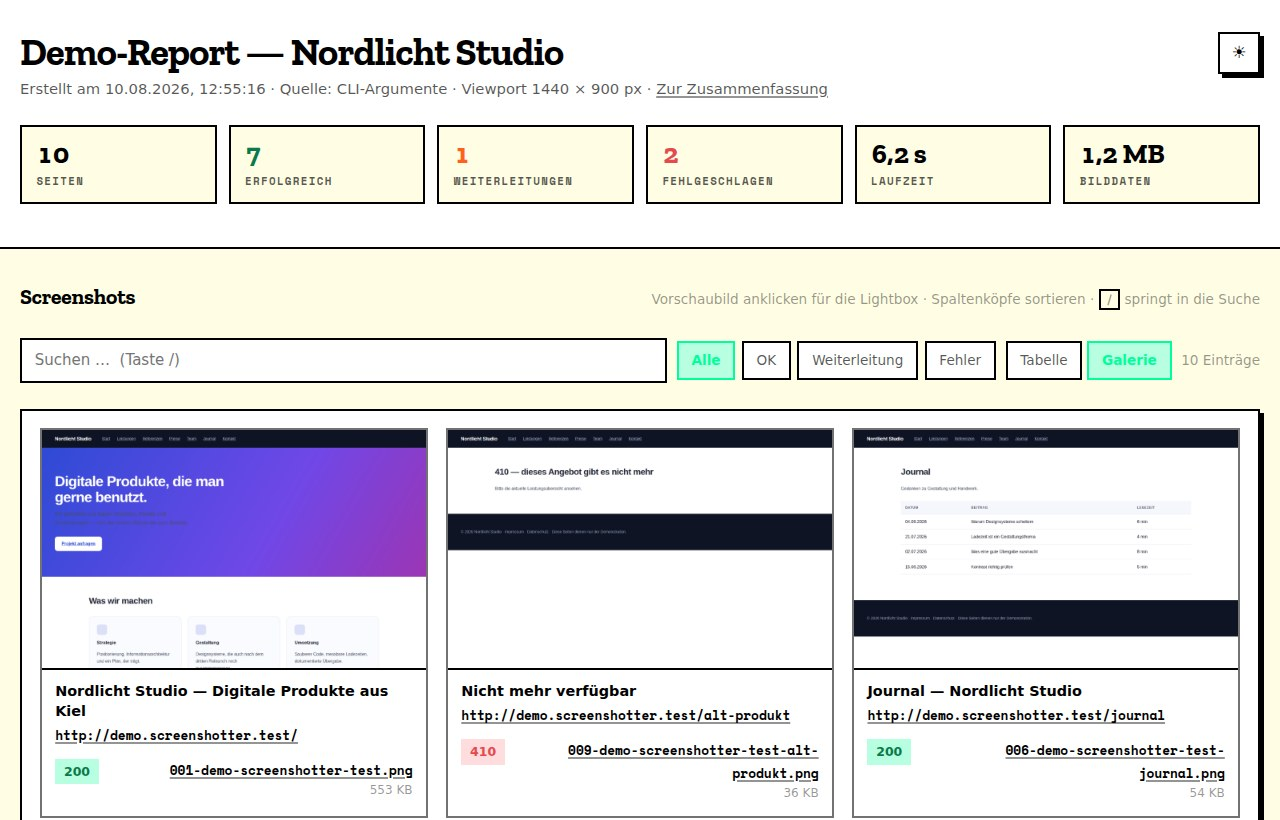
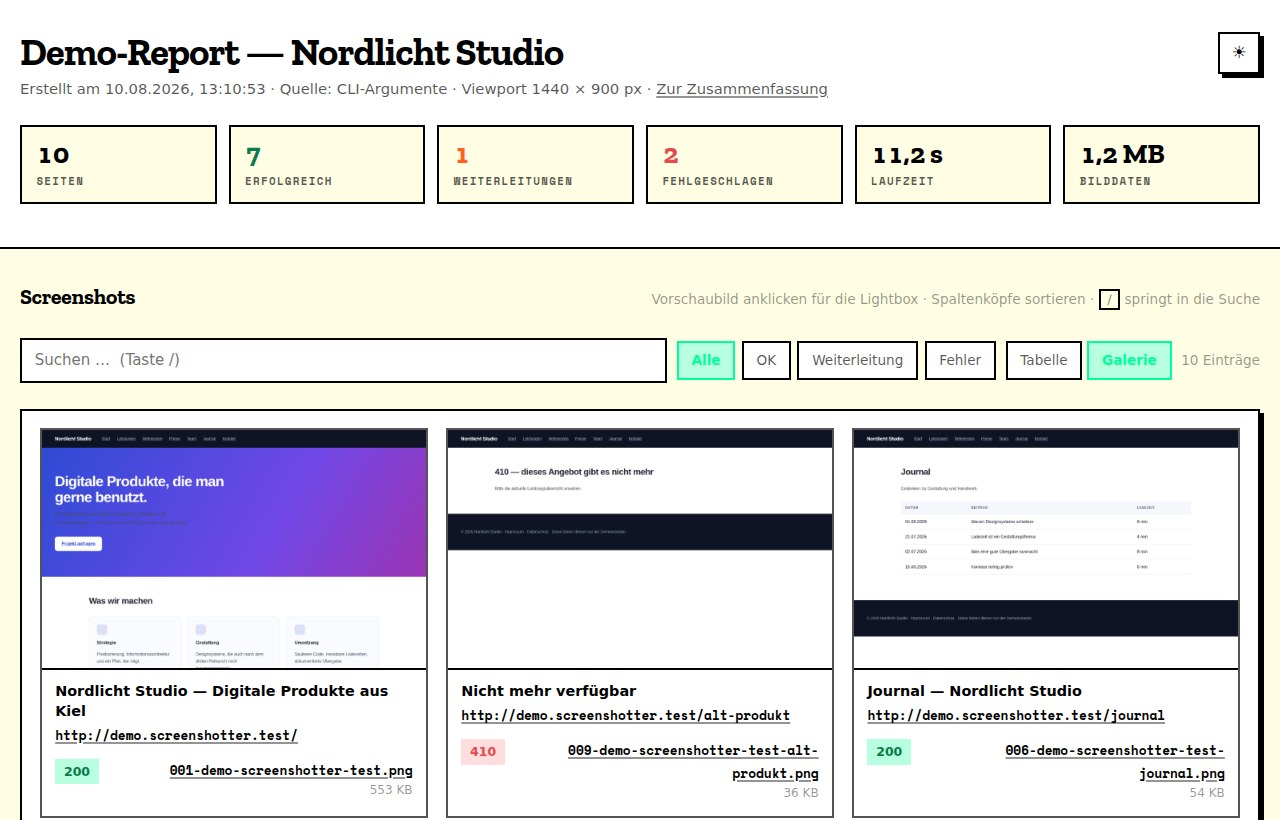
Rebuild the demo report and the docs images for 1.5.1
The screenshots under docs/ are taken from the running tool, so they
carry its version in the web UI footer. Bumping first and photographing
afterwards keeps the two in step — the other way round the images would
have shipped showing the previous version.

Version 1.5.1 also gives the corporate-identity work a release; 1.5.0
was cut before it.

Claude-Session: https://claude.ai/code/session_01WY6QHn3dAZf7BC5eNHGjUA

diff --git a/docs/demo/index.html b/docs/demo/index.html
@@ -4,7 +4,7 @@
   <meta charset="utf-8">
   <meta name="viewport" content="width=device-width, initial-scale=1">
   <meta name="robots" content="noindex, nofollow">
-  <meta name="generator" content="screenshotter v1.5.0">
+  <meta name="generator" content="screenshotter v1.5.1">
   <title>Demo-Report — Nordlicht Studio</title>
   <link rel="icon" href="assets/logo.svg" type="image/svg+xml">
   <link rel="stylesheet" href="assets/report.css">
@@ -20,7 +20,7 @@
         <div>
           <h1 class="site-title">Demo-Report — Nordlicht Studio</h1>
           <p class="site-subtitle">
-            Erstellt am 10.08.2026, 12:55:16 · Quelle: CLI-Argumente · Viewport 1440 × 900 px · <a href="#summary">Zur Zusammenfassung</a>
+            Erstellt am 10.08.2026, 13:10:53 · Quelle: CLI-Argumente · Viewport 1440 × 900 px · <a href="#summary">Zur Zusammenfassung</a>
           </p>
         </div>
         <button type="button" class="theme-toggle" id="theme-toggle">
@@ -46,7 +46,7 @@
           <span class="stat__label">Fehlgeschlagen</span>
         </li>
         <li class="stat">
-          <span class="stat__value">6,2 s</span>
+          <span class="stat__value">11,2 s</span>
           <span class="stat__label">Laufzeit</span>
         </li>
         <li class="stat">
@@ -102,7 +102,7 @@
                data-url="http://demo.screenshotter.test/"
                data-title="Nordlicht Studio — Digitale Produkte aus Kiel"
                data-status="HTTP 200"
-               data-time="10.08.2026, 12:55:10">
+               data-time="10.08.2026, 13:10:41">
               <img src="screenshots/thumbs/001-demo-screenshotter-test.png" alt="Screenshot von http://demo.screenshotter.test/" loading="lazy" decoding="async">
             </a>
           </td>
@@ -114,7 +114,7 @@
             <span class="badge badge--ok" title="OK">200</span>
           </td>
           <td class="num" data-label="Seitenhöhe" data-sort-value="2802">1.440 × 2.802 px</td>
-          <td class="num" data-label="Dauer" data-sort-value="2096">2,1 s</td>
+          <td class="num" data-label="Dauer" data-sort-value="7015">7 s</td>
           <td data-label="Datei" data-sort-value="001-demo-screenshotter-test.png"><a class="file-link" href="screenshots/001-demo-screenshotter-test.png" target="_blank" rel="noopener">001-demo-screenshotter-test.png</a>
             <span class="file-meta">553 KB</span></td>
         </tr>
@@ -125,7 +125,7 @@
                data-url="http://demo.screenshotter.test/alt-produkt"
                data-title="Nicht mehr verfügbar"
                data-status="HTTP 410 · Fehler"
-               data-time="10.08.2026, 12:55:15">
+               data-time="10.08.2026, 13:10:51">
               <img src="screenshots/thumbs/009-demo-screenshotter-test-alt-produkt.png" alt="Screenshot von http://demo.screenshotter.test/alt-produkt" loading="lazy" decoding="async">
             </a>
           </td>
@@ -137,7 +137,7 @@
             <span class="badge badge--error" title="Gone">410</span>
           </td>
           <td class="num" data-label="Seitenhöhe" data-sort-value="900">1.440 × 900 px</td>
-          <td class="num" data-label="Dauer" data-sort-value="1549">1,5 s</td>
+          <td class="num" data-label="Dauer" data-sort-value="1457">1,5 s</td>
           <td data-label="Datei" data-sort-value="009-demo-screenshotter-test-alt-produkt.png"><a class="file-link" href="screenshots/009-demo-screenshotter-test-alt-produkt.png" target="_blank" rel="noopener">009-demo-screenshotter-test-alt-produkt.png</a>
             <span class="file-meta">36 KB</span></td>
         </tr>
@@ -148,7 +148,7 @@
                data-url="http://demo.screenshotter.test/journal"
                data-title="Journal — Nordlicht Studio"
                data-status="HTTP 200"
-               data-time="10.08.2026, 12:55:13">
+               data-time="10.08.2026, 13:10:49">
               <img src="screenshots/thumbs/006-demo-screenshotter-test-journal.png" alt="Screenshot von http://demo.screenshotter.test/journal" loading="lazy" decoding="async">
             </a>
           </td>
@@ -160,7 +160,7 @@
             <span class="badge badge--ok" title="OK">200</span>
           </td>
           <td class="num" data-label="Seitenhöhe" data-sort-value="900">1.440 × 900 px</td>
-          <td class="num" data-label="Dauer" data-sort-value="1533">1,5 s</td>
+          <td class="num" data-label="Dauer" data-sort-value="1392">1,4 s</td>
           <td data-label="Datei" data-sort-value="006-demo-screenshotter-test-journal.png"><a class="file-link" href="screenshots/006-demo-screenshotter-test-journal.png" target="_blank" rel="noopener">006-demo-screenshotter-test-journal.png</a>
             <span class="file-meta">54 KB</span></td>
         </tr>
@@ -171,7 +171,7 @@
                data-url="http://demo.screenshotter.test/karriere"
                data-title="Team — Nordlicht Studio"
                data-status="HTTP 200"
-               data-time="10.08.2026, 12:55:14">
+               data-time="10.08.2026, 13:10:50">
               <img src="screenshots/thumbs/008-demo-screenshotter-test-karriere.png" alt="Screenshot von http://demo.screenshotter.test/karriere" loading="lazy" decoding="async">
             </a>
           </td>
@@ -184,7 +184,7 @@
             <span class="badge badge--warn" title="Weiterleitung nach http://demo.screenshotter.test/team">200</span>
           </td>
           <td class="num" data-label="Seitenhöhe" data-sort-value="945">1.440 × 945 px</td>
-          <td class="num" data-label="Dauer" data-sort-value="1452">1,5 s</td>
+          <td class="num" data-label="Dauer" data-sort-value="1435">1,4 s</td>
           <td data-label="Datei" data-sort-value="008-demo-screenshotter-test-karriere.png"><a class="file-link" href="screenshots/008-demo-screenshotter-test-karriere.png" target="_blank" rel="noopener">008-demo-screenshotter-test-karriere.png</a>
             <span class="file-meta">45 KB</span></td>
         </tr>
@@ -195,7 +195,7 @@
                data-url="http://demo.screenshotter.test/kontakt"
                data-title="Kontakt — Nordlicht Studio"
                data-status="HTTP 200"
-               data-time="10.08.2026, 12:55:14">
+               data-time="10.08.2026, 13:10:50">
               <img src="screenshots/thumbs/007-demo-screenshotter-test-kontakt.png" alt="Screenshot von http://demo.screenshotter.test/kontakt" loading="lazy" decoding="async">
             </a>
           </td>
@@ -207,7 +207,7 @@
             <span class="badge badge--ok" title="OK">200</span>
           </td>
           <td class="num" data-label="Seitenhöhe" data-sort-value="900">1.440 × 900 px</td>
-          <td class="num" data-label="Dauer" data-sort-value="1465">1,5 s</td>
+          <td class="num" data-label="Dauer" data-sort-value="1339">1,3 s</td>
           <td data-label="Datei" data-sort-value="007-demo-screenshotter-test-kontakt.png"><a class="file-link" href="screenshots/007-demo-screenshotter-test-kontakt.png" target="_blank" rel="noopener">007-demo-screenshotter-test-kontakt.png</a>
             <span class="file-meta">39 KB</span></td>
         </tr>
@@ -218,7 +218,7 @@
                data-url="http://demo.screenshotter.test/leistungen"
                data-title="Leistungen — Nordlicht Studio"
                data-status="HTTP 200"
-               data-time="10.08.2026, 12:55:10">
+               data-time="10.08.2026, 13:10:41">
               <img src="screenshots/thumbs/002-demo-screenshotter-test-leistungen.png" alt="Screenshot von http://demo.screenshotter.test/leistungen" loading="lazy" decoding="async">
             </a>
           </td>
@@ -230,7 +230,7 @@
             <span class="badge badge--ok" title="OK">200</span>
           </td>
           <td class="num" data-label="Seitenhöhe" data-sort-value="1530">1.440 × 1.530 px</td>
-          <td class="num" data-label="Dauer" data-sort-value="2091">2,1 s</td>
+          <td class="num" data-label="Dauer" data-sort-value="5197">5,2 s</td>
           <td data-label="Datei" data-sort-value="002-demo-screenshotter-test-leistungen.png"><a class="file-link" href="screenshots/002-demo-screenshotter-test-leistungen.png" target="_blank" rel="noopener">002-demo-screenshotter-test-leistungen.png</a>
             <span class="file-meta">115 KB</span></td>
         </tr>
@@ -241,7 +241,7 @@
                data-url="http://demo.screenshotter.test/preise"
                data-title="Preise — Nordlicht Studio"
                data-status="HTTP 200"
-               data-time="10.08.2026, 12:55:13">
+               data-time="10.08.2026, 13:10:49">
               <img src="screenshots/thumbs/004-demo-screenshotter-test-preise.png" alt="Screenshot von http://demo.screenshotter.test/preise" loading="lazy" decoding="async">
             </a>
           </td>
@@ -253,7 +253,7 @@
             <span class="badge badge--ok" title="OK">200</span>
           </td>
           <td class="num" data-label="Seitenhöhe" data-sort-value="1231">1.440 × 1.231 px</td>
-          <td class="num" data-label="Dauer" data-sort-value="1438">1,4 s</td>
+          <td class="num" data-label="Dauer" data-sort-value="1405">1,4 s</td>
           <td data-label="Datei" data-sort-value="004-demo-screenshotter-test-preise.png"><a class="file-link" href="screenshots/004-demo-screenshotter-test-preise.png" target="_blank" rel="noopener">004-demo-screenshotter-test-preise.png</a>
             <span class="file-meta">97 KB</span></td>
         </tr>
@@ -264,7 +264,7 @@
                data-url="http://demo.screenshotter.test/referenzen"
                data-title="Referenzen — Nordlicht Studio"
                data-status="HTTP 200"
-               data-time="10.08.2026, 12:55:10">
+               data-time="10.08.2026, 13:10:41">
               <img src="screenshots/thumbs/003-demo-screenshotter-test-referenzen.png" alt="Screenshot von http://demo.screenshotter.test/referenzen" loading="lazy" decoding="async">
             </a>
           </td>
@@ -276,7 +276,7 @@
             <span class="badge badge--ok" title="OK">200</span>
           </td>
           <td class="num" data-label="Seitenhöhe" data-sort-value="1392">1.440 × 1.392 px</td>
-          <td class="num" data-label="Dauer" data-sort-value="2092">2,1 s</td>
+          <td class="num" data-label="Dauer" data-sort-value="5550">5,6 s</td>
           <td data-label="Datei" data-sort-value="003-demo-screenshotter-test-referenzen.png"><a class="file-link" href="screenshots/003-demo-screenshotter-test-referenzen.png" target="_blank" rel="noopener">003-demo-screenshotter-test-referenzen.png</a>
             <span class="file-meta">227 KB</span></td>
         </tr>
@@ -287,7 +287,7 @@
                data-url="http://demo.screenshotter.test/team"
                data-title="Team — Nordlicht Studio"
                data-status="HTTP 200"
-               data-time="10.08.2026, 12:55:13">
+               data-time="10.08.2026, 13:10:49">
               <img src="screenshots/thumbs/005-demo-screenshotter-test-team.png" alt="Screenshot von http://demo.screenshotter.test/team" loading="lazy" decoding="async">
             </a>
           </td>
@@ -299,7 +299,7 @@
             <span class="badge badge--ok" title="OK">200</span>
           </td>
           <td class="num" data-label="Seitenhöhe" data-sort-value="945">1.440 × 945 px</td>
-          <td class="num" data-label="Dauer" data-sort-value="1532">1,5 s</td>
+          <td class="num" data-label="Dauer" data-sort-value="1447">1,4 s</td>
           <td data-label="Datei" data-sort-value="005-demo-screenshotter-test-team.png"><a class="file-link" href="screenshots/005-demo-screenshotter-test-team.png" target="_blank" rel="noopener">005-demo-screenshotter-test-team.png</a>
             <span class="file-meta">45 KB</span></td>
         </tr>
@@ -317,7 +317,7 @@
             <span class="badge badge--error">Fehler</span>
           </td>
           <td class="num" data-label="Seitenhöhe" data-sort-value="0">–</td>
-          <td class="num" data-label="Dauer" data-sort-value="127">127 ms</td>
+          <td class="num" data-label="Dauer" data-sort-value="685">685 ms</td>
           <td data-label="Datei" data-sort-value="010-nicht-erreichbar-screenshotter-test.png"><span class="file-meta">–</span></td>
         </tr>
         <tr class="empty-row" id="no-results" hidden><td colspan="7">Keine Treffer für den aktuellen Filter.</td></tr>
@@ -353,8 +353,8 @@
           <td data-label="Statuscode" data-sort-value="200">
             <span class="badge badge--ok" title="OK">200</span>
           </td>
-          <td class="num" data-label="Zeitstempel" data-sort-value="2026-08-10T12:55:10.633Z">
-            <time datetime="2026-08-10T12:55:10.633Z">10.08.2026, 12:55:10</time>
+          <td class="num" data-label="Zeitstempel" data-sort-value="2026-08-10T13:10:41.985Z">
+            <time datetime="2026-08-10T13:10:41.985Z">10.08.2026, 13:10:41</time>
           </td>
           <td data-label="Dateiname" data-sort-value="001-demo-screenshotter-test.png"><a class="file-link" href="screenshots/001-demo-screenshotter-test.png" target="_blank" rel="noopener">001-demo-screenshotter-test.png</a></td>
         </tr>
@@ -365,8 +365,8 @@
           <td data-label="Statuscode" data-sort-value="200">
             <span class="badge badge--ok" title="OK">200</span>
           </td>
-          <td class="num" data-label="Zeitstempel" data-sort-value="2026-08-10T12:55:10.633Z">
-            <time datetime="2026-08-10T12:55:10.633Z">10.08.2026, 12:55:10</time>
+          <td class="num" data-label="Zeitstempel" data-sort-value="2026-08-10T13:10:41.985Z">
+            <time datetime="2026-08-10T13:10:41.985Z">10.08.2026, 13:10:41</time>
           </td>
           <td data-label="Dateiname" data-sort-value="002-demo-screenshotter-test-leistungen.png"><a class="file-link" href="screenshots/002-demo-screenshotter-test-leistungen.png" target="_blank" rel="noopener">002-demo-screenshotter-test-leistungen.png</a></td>
         </tr>
@@ -377,8 +377,8 @@
           <td data-label="Statuscode" data-sort-value="200">
             <span class="badge badge--ok" title="OK">200</span>
           </td>
-          <td class="num" data-label="Zeitstempel" data-sort-value="2026-08-10T12:55:10.633Z">
-            <time datetime="2026-08-10T12:55:10.633Z">10.08.2026, 12:55:10</time>
+          <td class="num" data-label="Zeitstempel" data-sort-value="2026-08-10T13:10:41.986Z">
+            <time datetime="2026-08-10T13:10:41.986Z">10.08.2026, 13:10:41</time>
           </td>
           <td data-label="Dateiname" data-sort-value="003-demo-screenshotter-test-referenzen.png"><a class="file-link" href="screenshots/003-demo-screenshotter-test-referenzen.png" target="_blank" rel="noopener">003-demo-screenshotter-test-referenzen.png</a></td>
         </tr>
@@ -389,8 +389,8 @@
           <td data-label="Statuscode" data-sort-value="200">
             <span class="badge badge--ok" title="OK">200</span>
           </td>
-          <td class="num" data-label="Zeitstempel" data-sort-value="2026-08-10T12:55:13.063Z">
-            <time datetime="2026-08-10T12:55:13.063Z">10.08.2026, 12:55:13</time>
+          <td class="num" data-label="Zeitstempel" data-sort-value="2026-08-10T13:10:49.028Z">
+            <time datetime="2026-08-10T13:10:49.028Z">10.08.2026, 13:10:49</time>
           </td>
           <td data-label="Dateiname" data-sort-value="004-demo-screenshotter-test-preise.png"><a class="file-link" href="screenshots/004-demo-screenshotter-test-preise.png" target="_blank" rel="noopener">004-demo-screenshotter-test-preise.png</a></td>
         </tr>
@@ -401,8 +401,8 @@
           <td data-label="Statuscode" data-sort-value="200">
             <span class="badge badge--ok" title="OK">200</span>
           </td>
-          <td class="num" data-label="Zeitstempel" data-sort-value="2026-08-10T12:55:13.139Z">
-            <time datetime="2026-08-10T12:55:13.139Z">10.08.2026, 12:55:13</time>
+          <td class="num" data-label="Zeitstempel" data-sort-value="2026-08-10T13:10:49.218Z">
+            <time datetime="2026-08-10T13:10:49.218Z">10.08.2026, 13:10:49</time>
           </td>
           <td data-label="Dateiname" data-sort-value="005-demo-screenshotter-test-team.png"><a class="file-link" href="screenshots/005-demo-screenshotter-test-team.png" target="_blank" rel="noopener">005-demo-screenshotter-test-team.png</a></td>
         </tr>
@@ -413,8 +413,8 @@
           <td data-label="Statuscode" data-sort-value="200">
             <span class="badge badge--ok" title="OK">200</span>
           </td>
-          <td class="num" data-label="Zeitstempel" data-sort-value="2026-08-10T12:55:13.144Z">
-            <time datetime="2026-08-10T12:55:13.144Z">10.08.2026, 12:55:13</time>
+          <td class="num" data-label="Zeitstempel" data-sort-value="2026-08-10T13:10:49.430Z">
+            <time datetime="2026-08-10T13:10:49.430Z">10.08.2026, 13:10:49</time>
           </td>
           <td data-label="Dateiname" data-sort-value="006-demo-screenshotter-test-journal.png"><a class="file-link" href="screenshots/006-demo-screenshotter-test-journal.png" target="_blank" rel="noopener">006-demo-screenshotter-test-journal.png</a></td>
         </tr>
@@ -425,8 +425,8 @@
           <td data-label="Statuscode" data-sort-value="200">
             <span class="badge badge--ok" title="OK">200</span>
           </td>
-          <td class="num" data-label="Zeitstempel" data-sort-value="2026-08-10T12:55:14.897Z">
-            <time datetime="2026-08-10T12:55:14.897Z">10.08.2026, 12:55:14</time>
+          <td class="num" data-label="Zeitstempel" data-sort-value="2026-08-10T13:10:50.889Z">
+            <time datetime="2026-08-10T13:10:50.889Z">10.08.2026, 13:10:50</time>
           </td>
           <td data-label="Dateiname" data-sort-value="007-demo-screenshotter-test-kontakt.png"><a class="file-link" href="screenshots/007-demo-screenshotter-test-kontakt.png" target="_blank" rel="noopener">007-demo-screenshotter-test-kontakt.png</a></td>
         </tr>
@@ -437,8 +437,8 @@
           <td data-label="Statuscode" data-sort-value="200">
             <span class="badge badge--warn" title="Weiterleitung nach http://demo.screenshotter.test/team">200</span>
           </td>
-          <td class="num" data-label="Zeitstempel" data-sort-value="2026-08-10T12:55:14.912Z">
-            <time datetime="2026-08-10T12:55:14.912Z">10.08.2026, 12:55:14</time>
+          <td class="num" data-label="Zeitstempel" data-sort-value="2026-08-10T13:10:50.997Z">
+            <time datetime="2026-08-10T13:10:50.997Z">10.08.2026, 13:10:50</time>
           </td>
           <td data-label="Dateiname" data-sort-value="008-demo-screenshotter-test-karriere.png"><a class="file-link" href="screenshots/008-demo-screenshotter-test-karriere.png" target="_blank" rel="noopener">008-demo-screenshotter-test-karriere.png</a></td>
         </tr>
@@ -449,8 +449,8 @@
           <td data-label="Statuscode" data-sort-value="410">
             <span class="badge badge--error" title="Gone">410</span>
           </td>
-          <td class="num" data-label="Zeitstempel" data-sort-value="2026-08-10T12:55:15.002Z">
-            <time datetime="2026-08-10T12:55:15.002Z">10.08.2026, 12:55:15</time>
+          <td class="num" data-label="Zeitstempel" data-sort-value="2026-08-10T13:10:51.261Z">
+            <time datetime="2026-08-10T13:10:51.261Z">10.08.2026, 13:10:51</time>
           </td>
           <td data-label="Dateiname" data-sort-value="009-demo-screenshotter-test-alt-produkt.png"><a class="file-link" href="screenshots/009-demo-screenshotter-test-alt-produkt.png" target="_blank" rel="noopener">009-demo-screenshotter-test-alt-produkt.png</a></td>
         </tr>
@@ -461,8 +461,8 @@
           <td data-label="Statuscode" data-sort-value="999">
             <span class="badge badge--error">Fehler</span>
           </td>
-          <td class="num" data-label="Zeitstempel" data-sort-value="2026-08-10T12:55:16.723Z">
-            <time datetime="2026-08-10T12:55:16.723Z">10.08.2026, 12:55:16</time>
+          <td class="num" data-label="Zeitstempel" data-sort-value="2026-08-10T13:10:52.448Z">
+            <time datetime="2026-08-10T13:10:52.448Z">10.08.2026, 13:10:52</time>
           </td>
           <td data-label="Dateiname" data-sort-value="010-nicht-erreichbar-screenshotter-test.png"><span class="file-meta">–</span></td>
         </tr>
@@ -471,7 +471,7 @@
               <tr>
                 <td data-label="URL"><strong>10 URLs</strong></td>
                 <td data-label="Statuscode">7 OK · 1 Redirect · 2 Fehler</td>
-                <td class="num" data-label="Zeitstempel">6,2 s</td>
+                <td class="num" data-label="Zeitstempel">11,2 s</td>
                 <td class="num" data-label="Dateiname">1,2 MB</td>
               </tr>
             </tfoot>
@@ -483,7 +483,7 @@
 
   <footer class="site-footer">
     <div class="wrap">
-      Erzeugt mit <img class="footer-logo" src="assets/logo.svg" alt="" width="18" height="16"><strong>screenshotter</strong> v1.5.0 · Chromium via Playwright ·
+      Erzeugt mit <img class="footer-logo" src="assets/logo.svg" alt="" width="18" height="16"><strong>screenshotter</strong> v1.5.1 · Chromium via Playwright ·
       Full-Page-Screenshots ·
       Rohdaten: <a href="report.json">report.json</a>
     </div>

diff --git a/lib/cli.js b/lib/cli.js
@@ -4,7 +4,7 @@ import { parseArgs } from 'node:util';
 
 import { UserError } from './errors.js';
 
-export const VERSION = '1.5.0';
+export const VERSION = '1.5.1';
 
 /**
  * Fertige Geräteprofile. Ersparen das Merken von Viewport-Zahlen; einzeln
